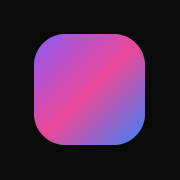
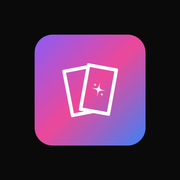
Refactor design specifications and improve theme token structure for clarity and consistency

Changed region(s): [[0.1667, 0.1667, 0.8333, 0.8333], [0.3333, 0.3333, 0.6667, 0.6667]]

diff --git a/components/WhoWeAre.js b/components/WhoWeAre.js
@@ -33,22 +33,23 @@ const STEPS = [
   },
 ];
 
+/**
+ * The page's light band: black type on white, sandwiched between the dark hero
+ * and the dark footer. Uses the `*Inverse` tokens so contrast is deliberate.
+ */
 export default function WhoWeAre() {
   return (
-    <Box
-      as="section"
-      id="how-it-works"
-      scrollMarginTop="4rem"
-      borderTopWidth="1px"
-      borderColor="border"
-    >
+    <Box as="section" id="how-it-works" scrollMarginTop="4rem" bg="bgInverse">
+      {/* 1px gradient hairline stitches the dark hero into the light band. */}
+      <Box h="1px" bgGradient="brand" />
+
       <Box maxW="7xl" mx="auto" px={6} py={{ base: 24, md: 32 }}>
         <Box maxW="2xl">
           <Text
             fontSize="xs"
             textTransform="uppercase"
             letterSpacing="0.2em"
-            color="muted"
+            color="mutedInverse"
             mb={4}
           >
             Who We Are
@@ -58,11 +59,11 @@ export default function WhoWeAre() {
             fontSize={{ base: "3xl", md: "5xl" }}
             fontWeight="bold"
             letterSpacing="tight"
-            color="fg"
+            color="fgInverse"
           >
             Built for creators who are done guessing.
           </Heading>
-          <Text fontSize="lg" lineHeight="tall" color="muted" mt={4}>
+          <Text fontSize="lg" lineHeight="tall" color="mutedInverse" mt={4}>
             Cardify is a free tool for influencers who want a number they can
             defend. Upload your performance data, and we turn it into a rate card
             you can send to brands — no agency markup, no benchmark guesswork.
@@ -79,22 +80,22 @@ export default function WhoWeAre() {
               key={card.title}
               borderRadius="card"
               borderWidth="1px"
-              borderColor="border"
-              bg="surface"
+              borderColor="borderInverse"
+              bg="surfaceInverse"
               p={6}
               transition="border-color 150ms ease"
-              _hover={{ borderColor: "borderStrong" }}
+              _hover={{ borderColor: "borderInverseStrong" }}
             >
               <Heading
                 as="h3"
                 fontSize="lg"
                 fontWeight="semibold"
                 letterSpacing="tight"
-                color="fg"
+                color="fgInverse"
               >
                 {card.title}
               </Heading>
-              <Text color="muted" lineHeight="tall" mt={2}>
+              <Text color="mutedInverse" lineHeight="tall" mt={2}>
                 {card.body}
               </Text>
             </Box>
@@ -108,7 +109,7 @@ export default function WhoWeAre() {
           gap={6}
           mt={20}
           borderTopWidth="1px"
-          borderColor="border"
+          borderColor="borderInverse"
           pt={12}
         >
           {STEPS.map((step) => (
@@ -126,12 +127,12 @@ export default function WhoWeAre() {
                 as="h3"
                 fontSize="base"
                 fontWeight="semibold"
-                color="fg"
+                color="fgInverse"
                 mt={3}
               >
                 {step.title}
               </Heading>
-              <Text color="muted" mt={1} lineHeight="tall">
+              <Text color="mutedInverse" mt={1} lineHeight="tall">
                 {step.body}
               </Text>
             </Stack>

diff --git a/components/Wordmark.js b/components/Wordmark.js
@@ -1,13 +1,35 @@
+import NextImage from "next/image";
 import { Box, HStack, Text } from "@chakra-ui/react";
 
+const MARK_SIZE = 14;
 /**
- * The Cardify wordmark: gradient glyph + name.
+ * `cardify-mark.png` carries the apple-icon composition — a rounded brand-gradient
+ * tile inset in a transparent canvas, where the tile is 61.7% of the frame. Scaling
+ * by the reciprocal makes that tile exactly fill the 14px box, so the tile's own
+ * rounded corners supply the glyph's shape and no part of the art is clipped.
+ */
+const MARK_ZOOM = 1 / 0.6167;
+
+/**
+ * The Cardify wordmark: logo mark + name.
  * `pill` renders the header form (rounded border); the footer uses the bare form.
  */
 export default function Wordmark({ pill = false, fontSize = "md", ...rest }) {
   const inner = (
     <HStack spacing={2} align="center">
-      <Box boxSize="14px" bgGradient="brand" borderRadius="sm" flexShrink={0} />
+      <Box boxSize={`${MARK_SIZE}px`} flexShrink={0} overflow="hidden">
+        <NextImage
+          src="/cardify-mark.png"
+          alt=""
+          width={MARK_SIZE}
+          height={MARK_SIZE}
+          style={{
+            width: "100%",
+            height: "100%",
+            transform: `scale(${MARK_ZOOM})`,
+          }}
+        />
+      </Box>
       <Text fontSize={fontSize} fontWeight="bold" letterSpacing="tight" color="fg">
         Cardify
       </Text>

diff --git a/theme.js b/theme.js
@@ -11,6 +11,7 @@ const theme = extendTheme({
     useSystemColorMode: false,
   },
   colors: {
+    // Dark bands (default)
     bg: "#0A0A0A",
     surface: "rgba(255,255,255,0.02)",
     border: "rgba(255,255,255,0.10)",
@@ -18,6 +19,14 @@ const theme = extendTheme({
     fg: "#FFFFFF",
     muted: "#A1A1AA",
     faint: "#71717A",
+    // Light band ("inverse" of the tokens above) — used by inverted sections
+    bgInverse: "#FFFFFF",
+    surfaceInverse: "rgba(10,10,10,0.02)",
+    borderInverse: "rgba(10,10,10,0.10)",
+    borderInverseStrong: "rgba(10,10,10,0.16)",
+    fgInverse: "#0A0A0A",
+    mutedInverse: "#52525B",
+    faintInverse: "#71717A",
     // Namespaced on purpose: Chakra's own component styles read `blue.500` etc.,
     // so overriding `blue` / `purple` / `pink` would break default focus rings.
     accent: {

diff --git a/components/Header.js b/components/Header.js
@@ -28,7 +28,10 @@ export default function Header() {
       zIndex={50}
       borderBottomWidth="1px"
       borderColor="border"
-      bg="rgba(10,10,10,0.8)"
+      /* 0.92, not 0.8: over the white "Who We Are" band an 0.8 panel composites
+         to #3B3B3B, dropping the muted nav link to 4.4:1 — under AA. 0.92 gives
+         #1E1E1E and 6.5:1. */
+      bg="rgba(10,10,10,0.92)"
       backdropFilter="blur(12px)"
     >
       <Flex

diff --git a/blueprints/Phase1.md b/blueprints/Phase1.md
@@ -60,7 +60,7 @@ Visual example: [`../reference/design-reference.png`](../reference/design-refere
 
 ### What NOT to borrow
 
-- **Section structure.** The image alternates black and white bands and stacks five distinct sections. This site is pure black throughout — separation comes from spacing and surface value, not light bands.
+- **Section count and light-band density.** The image alternates bands across five stacked sections. This site uses exactly one light band — Hero and Footer are dark, "Who We Are" is white. Adding more light bands fragments the page; within a single band, separation comes from spacing and surface value, not extra dividers.
 - **Gradient area.** The image fills whole panels with saturated gradient. This site holds a 10% accent budget — gradient tiles become small accent elements, never full-width fields.
 - **Density.** The image is a mobile-width capture; this site is desktop-first at `maxW="7xl"`.
 
@@ -70,11 +70,14 @@ Visual example: [`../reference/design-reference.png`](../reference/design-refere
 
 - **Core Style:** Modern Dark Studio / Creative Agency Portfolio.
 - **Vibe:** High-end, exclusive, bold, clean, and professional — like a contemporary creative agency.
+- **Band structure:** Dark hero → white proof band ("Who We Are") → dark footer. The two dark ends frame one light section, so the page reads as one composition rather than a stack of unrelated blocks. The dark-to-light seam carries a 1px `bgGradient="brand"` hairline.
 - **Layout Structure:** Grid-based, modular layout. Asymmetric but balanced. Cards with minimal rounding — nothing above `borderRadius="card"` (12px).
 
 ## Theme Tokens
 
 `theme.js` is the single source of truth. Section specs below reference these names; never hardcode a hex value in a component.
+
+**Two token sets, one role each.** `bg` / `fg` / `muted` / `border` are the dark-band set. The `*Inverse` names are the same roles for the light band. A component never mixes the two inside one band — a dark band uses the base set, the light band uses `*Inverse`. That is what keeps contrast deliberate instead of accidental.
 
 ```js
 import { extendTheme } from "@chakra-ui/react";
@@ -85,6 +88,7 @@ const theme = extendTheme({
     useSystemColorMode: false,
   },
   colors: {
+    // Dark bands (default)
     bg: "#0A0A0A",          // page background
     surface: "rgba(255,255,255,0.02)", // card fill
     border: "rgba(255,255,255,0.10)",  // default hairline
@@ -92,6 +96,14 @@ const theme = extendTheme({
     fg: "#FFFFFF",          // headings, primary text
     muted: "#A1A1AA",       // secondary text, labels
     faint: "#71717A",       // footer / micro-copy
+    // Light band — same roles, inverted. Only "Who We Are" uses these.
+    bgInverse: "#FFFFFF",
+    surfaceInverse: "rgba(10,10,10,0.02)",
+    borderInverse: "rgba(10,10,10,0.10)",
+    borderInverseStrong: "rgba(10,10,10,0.16)",
+    fgInverse: "#0A0A0A",
+    mutedInverse: "#52525B", // 7.6:1 on white
+    faintInverse: "#71717A", // 4.8:1 on white
     accent: {
       purple: "#8B5CF6",
       pink: "#EC4899",
@@ -235,6 +247,7 @@ For a hard-edged gradient surface (hero preview panel accent), use `bgGradient="
 ### Usage Rules (Best Practices)
 
 - **Do Not Overdo It:** Keep a 90% ratio of clean, sharp black-and-white, and use gradient elements only as a sweetening accent (10% max) so the high-end, professional aesthetic holds up without looking tacky.
+- **Sanctioned gradient surfaces (all of them):** the hero's ambient glow, the hero preview panel's 1px ring, the 1px hairline at the dark→light band seam, and the three step numbers `01`–`03`. Anything else — a gradient button fill, a gradient section background, gradient body text — is out of budget.
 - **Use Blur Effects:** Always apply a high blur (`filter="blur(64px)"` or `blur(96px)`) to background gradients so they blend smoothly into the deep black base (`#0A0A0A`).
 
 ## Routes & File Structure
@@ -279,6 +292,8 @@ sections/          # only if components/ grows past ~8 files
 
 Phase 1 ships the Header Menu, Footer, Hero Section, and the "Who We Are" section. Copy below is final English content; layout notes reference the tokens defined above.
 
+**Band order:** Header (dark) → Hero (dark) → Who We Are (light) → Footer (dark). `bg="bgInverse"` on the light band is the only background swap on the page.
+
 ### Hero Section
 
 #### Content
@@ -318,7 +333,7 @@ Phase 1 ships the Header Menu, Footer, Hero Section, and the "Who We Are" sectio
 
 #### Layout & Styling
 
-- Sticky: `position="sticky" top={0} zIndex={50} borderBottomWidth="1px" borderColor="border" bg="rgba(10,10,10,0.8)" backdropFilter="blur(12px)"`.
+- Sticky: `position="sticky" top={0} zIndex={50} borderBottomWidth="1px" borderColor="border" bg="rgba(10,10,10,0.92)" backdropFilter="blur(12px)"`. The 0.92 opacity (not 0.8) is load-bearing: the header sticks over the white band while scrolling, and an 0.8 panel composites to `#3B3B3B` there, putting the `muted` nav link at 4.4:1 — under the 4.5:1 AA floor for small text. At 0.92 the composite is `#1E1E1E` and the link measures 6.5:1.
 - Inner container: `maxW="7xl" mx="auto" px={6} h={16} display="flex" alignItems="center" justifyContent="space-between"`.
 - Nav links: `fontSize="sm" color="muted" _hover={{ color: "fg" }} transition="color 150ms"`, spacing `gap={8}`.
 - Header CTA is smaller than the hero primary: `size="sm"`.
@@ -363,11 +378,14 @@ Phase 1 ships the Header Menu, Footer, Hero Section, and the "Who We Are" sectio
 
 #### Layout & Styling
 
+- **This is the light band** — `bg="bgInverse"` on the section, and every text, border, and surface token inside it is the `*Inverse` set. Nothing in this section uses a dark-band token.
 - Section anchored `id="how-it-works"`. The 3-step strip is a sub-block of this section, anchored `id="how-it-works-steps"`.
-- Heading block: left-aligned, `maxW="2xl"`. Lead paragraph sits under the heading with `mt={4}`.
-- Value cards: `display="grid" templateColumns={{ base: "1fr", md: "repeat(3, 1fr)" }} gap={6} mt={16}`. Each card `borderRadius="card" borderWidth="1px" borderColor="border" bg="surface" p={6}`, `_hover={{ borderColor: "borderStrong" }}`. Card title `as="h3" fontSize="lg" fontWeight="semibold" letterSpacing="tight"`, body `color="muted" lineHeight="tall" mt={2}`.
-- Step strip: `display="grid" templateColumns={{ base: "1fr", md: "repeat(3, 1fr)" }} gap={6} mt={20} borderTopWidth="1px" borderColor="border" pt={12}`. Step number `fontSize="sm" fontFamily="body" bgGradient="linear(to-r, accent.purple, accent.pink)" bgClip="text" color="transparent"` (`01` / `02` / `03`) — this is the section's only gradient, keeping the 10% accent budget. Step title `fontSize="base" fontWeight="semibold" mt={3}`, step body `color="muted" mt={1}`.
+- Top seam: `<Box h="1px" bgGradient="brand" />` as the first child of the section — the only thing separating the dark hero from the white band.
+- Heading block: left-aligned, `maxW="2xl"`. Overline `color="mutedInverse"`. H2 `color="fgInverse"`. Lead paragraph `color="mutedInverse"` with `mt={4}`.
+- Value cards: `<Grid templateColumns={{ base: "1fr", md: "repeat(3, 1fr)" }} gap={6} mt={16}>`. Each card `borderRadius="card" borderWidth="1px" borderColor="borderInverse" bg="surfaceInverse" p={6}`, `_hover={{ borderColor: "borderInverseStrong" }}`. Card title `as="h3" fontSize="lg" fontWeight="semibold" letterSpacing="tight" color="fgInverse"`, body `color="mutedInverse" lineHeight="tall" mt={2}`.
+- Step strip: `<Grid templateColumns={{ base: "1fr", md: "repeat(3, 1fr)" }} gap={6} mt={20} borderTopWidth="1px" borderColor="borderInverse" pt={12}>`. Step number `fontSize="sm" fontFamily="body" bgGradient="linear(to-r, accent.purple, accent.pink)" bgClip="text" color="transparent"` (`01` / `02` / `03`) — the gradient reads correctly on white, so the accent survives the band flip. Step title `fontSize="base" fontWeight="semibold" mt={3} color="fgInverse"`, step body `color="mutedInverse" mt={1}`.
 - Section padding: `py={{ base: 24, md: 32 }}`. Container: `maxW="7xl" mx="auto" px={6}`.
+- The dark footer keeps its own separation: `mt={32}` on `<footer>` leaves 128px of page background between the white band and the footer's top hairline.
 
 ## SEO & Metadata Specification
 

diff --git a/blueprints/ShortBrief.md b/blueprints/ShortBrief.md
@@ -15,7 +15,7 @@ Cardify is a website that helps influencers determine their rate card for endors
     - Rate Card Calculator : this will separate into 3 sections, Tiktok, Youtube, and Instagram. Every section is separate by using Chakra UI Tabs (customize into 3 buttons Tiktok, Youtube, and Instagram). every tabs will calculate based on user upload their social media dashboard, about viewers, engagement and many more that will using as parameters to determine their rate card.
 
 it will separate into : 
-1. Phase 1 : it will develop initial component of the website, Header Menu, Footer, Hero Section, and another section in Landing page that define who we are. It will contain about Typography, Tagline, and content of landing page. Stack is fixed here: Next.js Pages Router, React 19, and Chakra UI v2 (theme tokens in `theme.js` — no Tailwind), so Phase 2 tabs inherit the same design system. Including code about web SEO — brand name, domain, and metadata all locked to `Cardify` / `cardify.my.id` so the brand is indexed under one identity from day one.
+1. Phase 1 : it will develop initial component of the website, Header Menu, Footer, Hero Section, and another section in Landing page that define who we are. It will contain about Typography, Tagline, and content of landing page. The page runs dark → light → dark: Header and Hero on near-black, the "Who We Are" section on white, Footer back on near-black, with a 1px brand-gradient hairline at the seam. Stack is fixed here: Next.js Pages Router, React 19, and Chakra UI v2 (theme tokens in `theme.js` — no Tailwind), so Phase 2 tabs inherit the same design system. Including code about web SEO — brand name, domain, and metadata all locked to `Cardify` / `cardify.my.id` so the brand is indexed under one identity from day one.
 2. Phase 2 : initial development of Rate Card Calculator, develop of routes of Youtube, Tiktok, and Instagram Tab. Adjust Background to each tab follow that social media identity (youtube : red of youtube, tiktok : black of tiktok, instagram : purple of instagram). Develop some input forms (username, followers, etc), and upload forms (to upload their social media dashboard) to get insight from their social media dashboard. Including integrate with AI to determine their rate card based on their dashboard performance.
 3. Phase 3 : Development about Download Generated Rate card, it will become pdf based. (maybe using html2canvas or jspdf). also in downloaded pdf document will include Cardify logo in the bottom center of document, watermarked `Created with Cardify — cardify.my.id` (since its free tier). Every downloaded PDF is a brand touchpoint — it lands in a brand manager's inbox with Cardify's name on it.
 
